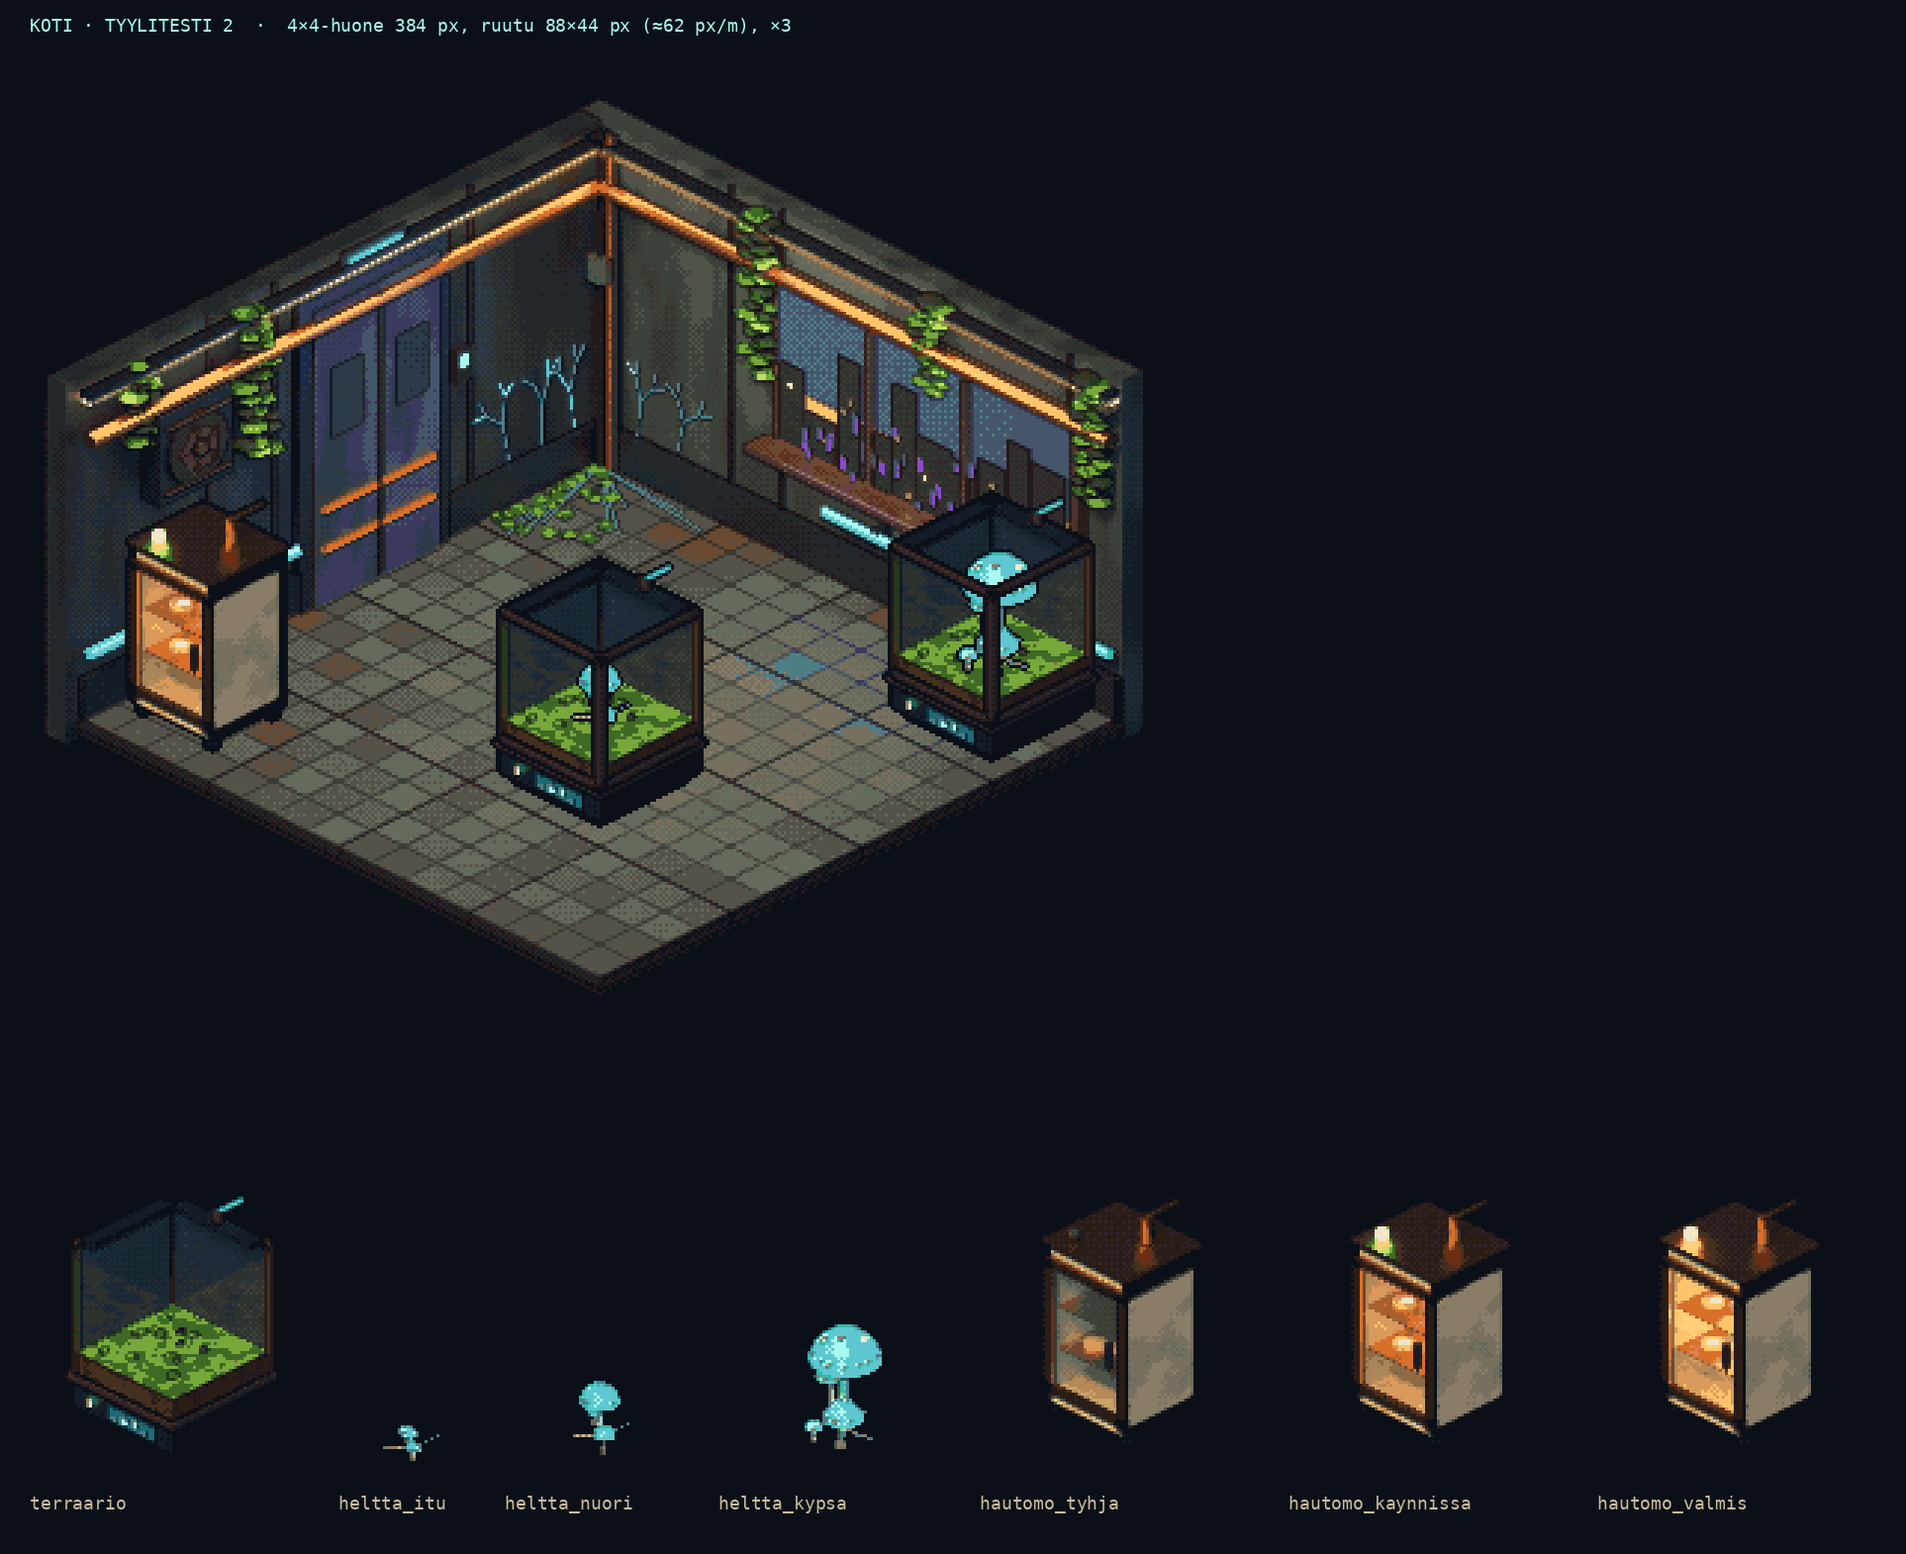
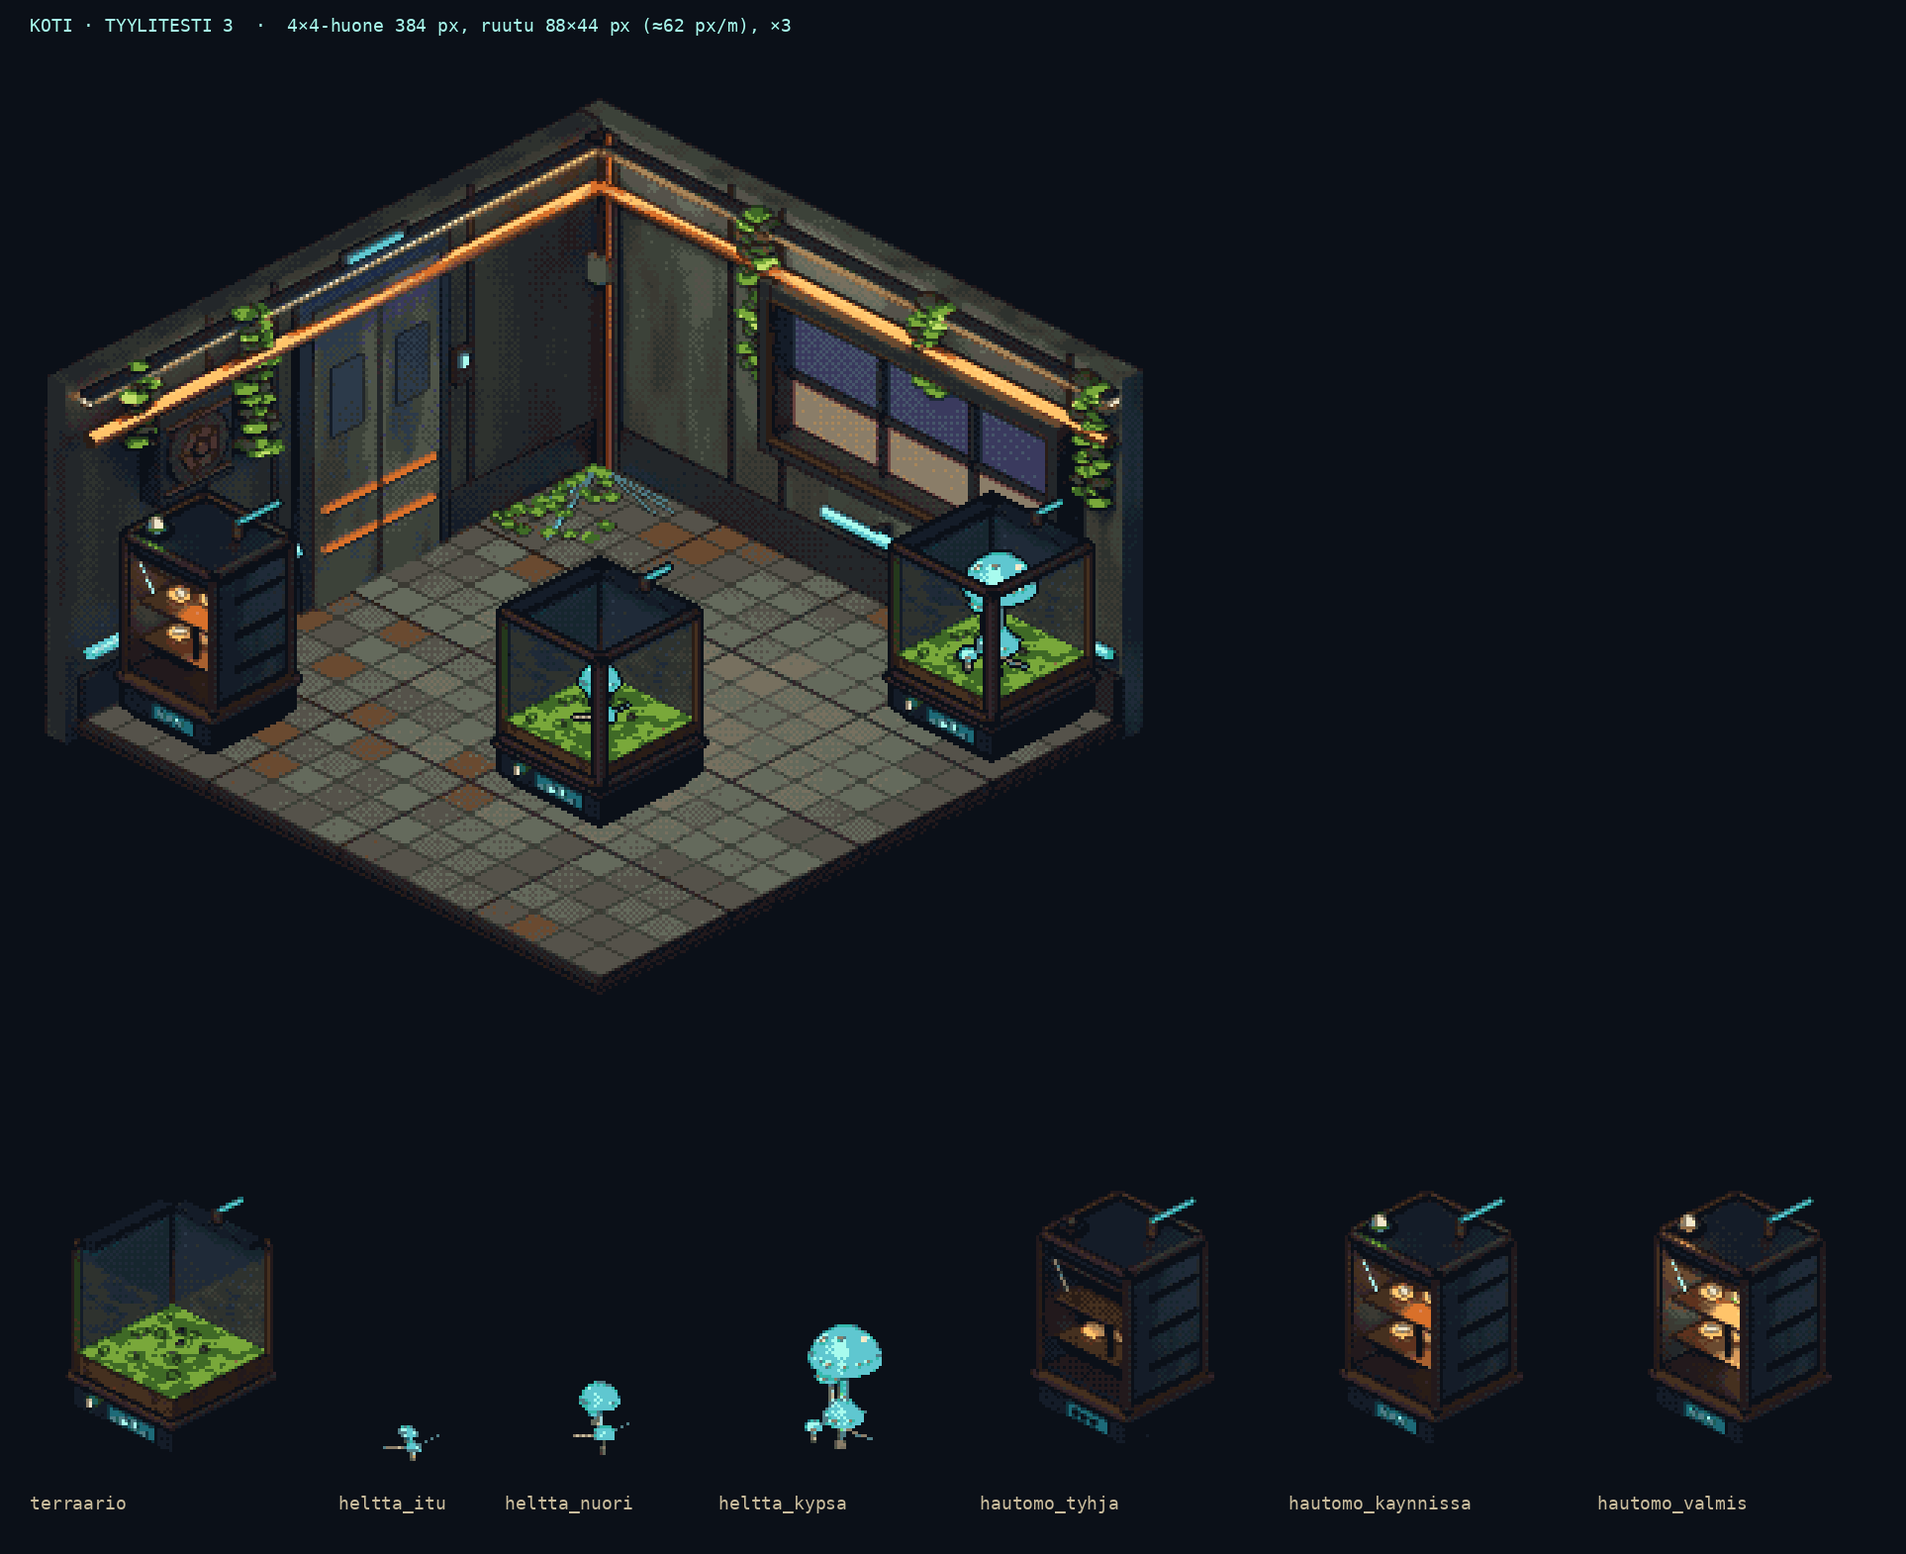
Grafiikka: tyylitesti 3 – hautomo terraarion tyyliin, syvä ikkunakarmi ilman maisemaa, rihmastot pois seiniltä
Claude-Session: https://claude.ai/code/session_01JS56Z8CcBzHQJ8sgZoALuF

diff --git a/blender/koti.py b/blender/koti.py
@@ -89,14 +89,14 @@ def M():
       'iron':    mat('rauta', '#2c3a4a', 0.55, 0.7),
       'cream':   wmat('emali', '#c9bc9c', '#efe6cc', 3.0, 0.5, cut=0.45),
       'glassB':  mat('lasiTaka', '#1f2a38', 0.1, 0.0, emit='#16262e', estr=0.6),
-      'glassF':  mat('lasiLuukku', '#4f7d86', 0.08, 0.0, alpha=0.25),
+      'glassF':  mat('lasiLuukku', '#4f7d86', 0.08, 0.0, alpha=0.1),
       'soil':    wmat('multa', '#2a1d16', '#45301f', 12.0, 1.0),
       'moss':    wmat('sammal', '#3f6a26', '#79a83a', 9.0, 1.0),
       'mossD':   mat('sammalT', '#24391c', 1.0),
       'stem':    mat('jalka', '#efe6cc', 0.7),
       'stemD':   mat('jalkaT', '#c9bc9c', 0.8),
-      'sky':     mat('taivas', '#7a4a5a', 1.0, emit='#d9845a', estr=1.4),
-      'skyT':    mat('taivasY', '#1b2a4a', 1.0, emit='#3a3a5e', estr=1.4),
+      'sky':     mat('taivas', '#3a3a5e', 1.0, emit='#7a4a5a', estr=1.2),
+      'skyT':    mat('taivasY', '#141c28', 1.0, emit='#1b2a4a', estr=1.2),
       'city':    mat('kaupunki', '#141c28', 1.0),
       'cityL':   mat('kaupunkiV', '#ffcf7a', 1.0, emit='#ffcf7a', estr=3.0),
       'door':    wmat('ovi', '#45301f', '#33242a', 5.0, 0.9, stretch=(1, 1, 6)),
@@ -104,8 +104,8 @@ def M():
       'ledG':    mat('ledV', '#6ae07a', 0.5, emit='#6ae07a', estr=8),
       'ledA':    mat('ledA', '#e8a02a', 0.5, emit='#ffcf7a', estr=8),
       'ledOff':  mat('ledP', '#23272a', 0.5),
-      'warmIn':  mat('hautomoS', '#d99a5b', 1.0, emit='#ffb860', estr=1.6),
-      'warmInA': mat('hautomoSA', '#e8a02a', 1.0, emit='#ffcf7a', estr=3.5),
+      'warmIn':  mat('hautomoS', '#d99a5b', 1.0, emit='#ffb860', estr=2.2),
+      'warmInA': mat('hautomoSA', '#e8a02a', 1.0, emit='#ffcf7a', estr=6.0),
       'warmOff': mat('hautomoSP', '#33242a', 1.0),
       'agar':    mat('agar', '#f3d08a', 0.4, emit='#d99a5b', estr=0.3),
       # futuristinen laboratorio
@@ -268,47 +268,59 @@ PLANT = {'astia_terraario': SOIL_TOP + 0.01}
 
 # =================== LAITTEET ===================
 def laite_hautomo(state='kaynnissa'):
-    """Hautomo: lämmin emalikaappi, lasiluukku, sisällä hyllyillä agar-maljoja, merivihreä merkkivalo."""
-    m = M(); w, d, h = 0.62, 0.56, 0.98; z0 = 0.08
-    for sx in (-1, 1):
-        for sy in (-1, 1): box((sx * (w / 2 - 0.05), sy * (d / 2 - 0.05), z0 / 2), (0.05, 0.05, z0), m['iron'])
-    # runko: takaseinä, sivut, katto, pohja (luukku -y-puolella)
-    box((0, d / 2 - 0.02, z0 + h / 2), (w, 0.04, h), m['cream'])
-    box((-w / 2 + 0.02, 0, z0 + h / 2), (0.04, d, h), m['cream'])
-    box((w / 2 - 0.02, 0, z0 + h / 2), (0.04, d, h), m['cream'])
-    box((0, 0, z0 + 0.03), (w, d, 0.06), m['cream'])
-    box((0, 0, z0 + h - 0.06), (w, d, 0.12), m['cream'])
-    box((0, 0, z0 + h + 0.01), (w + 0.03, d + 0.03, 0.03), m['copper'])
+    """Hautomo terraarion tyyliin: teräsjalusta lukemanäytöllä, tummat sivupaneelit teräskehyksessä,
+    lasiluukku (-y-puoli), jonka takana lämpimässä valossa hyllyittäin agar-maljoja. Merkkivalo katolla."""
+    m = M(); w, d, h = 0.66, 0.6, 0.86; z0 = BASE_H; t = 0.035
+    # jalusta kuten terraariossa
+    box((0, 0, z0 / 2 + 0.03), (w + 0.04, d + 0.04, z0 - 0.06), m['steelD'])
+    box((0, 0, z0 - 0.02), (w + 0.08, d + 0.08, 0.04), m['steel'])
+    box((0, 0, 0.02), (w - 0.06, d - 0.06, 0.04), m['rubber'])
+    box((0.06, -d / 2 - 0.025, z0 / 2), (0.3, 0.012, 0.09), m['screen'])
+    lit = state != 'tyhja'
+    for i in range(3):
+        box((-0.03 + i * 0.07, -d / 2 - 0.033, z0 / 2), (0.045, 0.01, 0.03), m['screenL'] if lit else m['panelD'])
+    box((w / 2 + 0.025, 0.1, z0 / 2), (0.012, 0.3, 0.05), m['panelD'])
+    # kaappi: takaseinä ja sivut tummaa paneelia, katto ja pohja
+    box((0, d / 2 - 0.02, z0 + h / 2), (w, 0.04, h), m['panelL'])
+    box((-w / 2 + 0.02, 0, z0 + h / 2), (0.04, d, h), m['panelL'])
+    box((w / 2 - 0.02, 0, z0 + h / 2), (0.04, d, h), m['panelR'])
+    for z in (0.25, 0.5, 0.75):                                          # tuuletusrivat oikealla kyljellä
+        box((w / 2 + 0.002, 0.05, z0 + z * h), (0.01, d - 0.25, 0.025), m['panelD'])
+    box((0, 0, z0 + 0.03), (w, d, 0.06), m['steelD'])
+    box((0, 0, z0 + h - 0.04), (w, d, 0.08), m['steelD'])
     inner = {'tyhja': m['warmOff'], 'kaynnissa': m['warmIn'], 'valmis': m['warmInA']}[state]
-    box((0, d / 2 - 0.045, z0 + h / 2), (w - 0.1, 0.01, h - 0.2), inner)
-    if state != 'tyhja':
+    box((0, d / 2 - 0.045, z0 + h / 2), (w - 0.1, 0.01, h - 0.16), inner)
+    if lit:
         glow_light((0, -0.05, z0 + h * 0.55), '#ffcf7a' if state == 'valmis' else '#ffb860', 6 if state == 'valmis' else 3, 0.2)
     # hyllyt ja maljat
     rnd = random.Random(5)
     cols = ['heltta', 'ruusu', 'heltta', 'hamara']
-    for i, z in enumerate((0.3, 0.56, 0.82)):
+    for i, z in enumerate((0.2, 0.44, 0.68)):
         zz = z0 + z
-        box((0, 0.02, zz), (w - 0.08, d - 0.1, 0.015), m['copper'])
-        if state == 'tyhja' and i > 0: continue
-        for j, x in enumerate((-0.15, 0.0, 0.15)):
+        box((0, 0.02, zz), (w - 0.08, d - 0.1, 0.015), m['steel'])
+        if not lit and i > 0: continue
+        for j, x in enumerate((-0.16, 0.0, 0.16)):
             cyl((x, -0.06 + (j % 2) * 0.08, zz + 0.02), 0.065, 0.025, m['agar'], 14)
             k = cols[(i + j) % 4]; capm, gillm, _ = strain_mats(k)
-            if state != 'tyhja':
+            if lit:
                 cyl((x + rnd.uniform(-0.02, 0.02), -0.06 + (j % 2) * 0.08, zz + 0.035), 0.035, 0.008, gillm, 10)
-    # lasiluukku ja sen kehys
-    box((0, -d / 2 + 0.01, z0 + h / 2 - 0.03), (w - 0.06, 0.012, h - 0.2), m['glassF'], shadow=False)
-    for x in (-w / 2 + 0.03, w / 2 - 0.03):
-        box((x, -d / 2, z0 + h / 2 - 0.03), (0.06, 0.03, h - 0.14), m['copper'])
-    for z in (z0 + 0.09, z0 + h - 0.1):
-        box((0, -d / 2, z), (w, 0.03, 0.05), m['copper'])
-    box((w / 2 - 0.1, -d / 2 - 0.03, z0 + h / 2), (0.03, 0.03, 0.16), m['iron'])        # kahva
-    # merkkivalo ja lämpömittari katolla
+    # lasiluukku ja teräskehys (pystytolpat ja reunat kuten terraariossa)
+    # luukun lasi jätetään pois kuten terraarion etulasit; vain ohut heijastusjuova lasin paikalla
+    rod((-w / 2 + 0.1, -d / 2 + 0.005, z0 + h - 0.12), (-w / 2 + 0.22, -d / 2 + 0.005, z0 + h - 0.3), 0.008, mat('heijastus', '#9fd3d6', 0.3, emit='#9fd3d6', estr=0.6), 4)
+    for (sx, sy) in ((-1, -1), (1, -1), (1, 1), (-1, 1)):
+        box((sx * w / 2, sy * d / 2, z0 + h / 2), (t, t, h), m['steel'])
+    for z in (z0, z0 + h):
+        for sy in (-1, 1): box((0, sy * d / 2, z), (w + t, t, t), m['steel'])
+        for sx in (-1, 1): box((sx * w / 2, 0, z), (t, d + t, t), m['steel'])
+    box((w / 2 - 0.09, -d / 2 - 0.03, z0 + h / 2), (0.025, 0.03, 0.2), m['steelD'])      # kahva
+    # kansi: merkkivalo ja kostutusletku (sama ravinneputki kuin terraariossa)
     led = {'tyhja': m['ledOff'], 'kaynnissa': m['ledG'], 'valmis': m['ledA']}[state]
-    sphere((-w / 2 + 0.12, -d / 2 + 0.1, z0 + h + 0.06), 0.045, led)
-    if state != 'tyhja':
-        glow_light((-w / 2 + 0.12, -d / 2 + 0.02, z0 + h + 0.12), '#6ae07a' if state == 'kaynnissa' else '#ffcf7a', 0.6, 0.05)
-    cyl((0.1, 0.08, z0 + h + 0.1), 0.035, 0.16, m['copper'], 10)                         # ilmaputki
-    rod((0.1, 0.08, z0 + h + 0.18), (0.1, d / 2 + 0.05, z0 + h + 0.18), 0.02, m['copper'])
+    box((-w / 2 + 0.12, -d / 2 + 0.12, z0 + h + 0.03), (0.12, 0.12, 0.04), m['steelD'])
+    sphere((-w / 2 + 0.12, -d / 2 + 0.12, z0 + h + 0.07), 0.04, led)
+    if lit:
+        glow_light((-w / 2 + 0.12, -d / 2 + 0.04, z0 + h + 0.13), '#6ae07a' if state == 'kaynnissa' else '#ffcf7a', 0.6, 0.05)
+    cyl((0.12, 0.1, z0 + h + 0.05), 0.035, 0.08, m['steel'], 10)
+    rod((0.12, 0.1, z0 + h + 0.09), (0.12, d / 2 + 0.12, z0 + h + 0.09), 0.018, m['tube'], 8)
 
 # =================== TILAT ===================
 ROOM_N = (4, 4)
@@ -328,7 +340,7 @@ def vine(x, y, z0, length, face, seed, m):
 
 def tila_huone():
     """4×4-laboratorio: laattalattia, paneeliseinät, valolista, ravinneputket, tuuletin, liukuovi kellariin,
-    leveä ikkuna villiintyneeseen iltakaupunkiin, köynnöksiä ja nurkasta kasvava rihmasto."""
+    syvä ikkuna hämärään, köynnöksiä ja nurkan lattialle levinnyt rihmasto."""
     m = M(); nx, ny = ROOM_N; hx, hy = nx / 2, ny / 2
     for c in range(nx):
         for r in range(ny):
@@ -350,29 +362,24 @@ def tila_huone():
     box((0, hy - 0.05, WALL_H - 0.12), (nx, 0.06, 0.035), m['strip'], shadow=False)
     box((-hx + 0.07, 0, WALL_H - 0.08), (0.1, ny, 0.04), m['steelD'], shadow=False)
     box((0, hy - 0.07, WALL_H - 0.08), (nx, 0.1, 0.04), m['steelD'], shadow=False)
-    # leveä ikkuna oikeassa seinässä
-    wx0, wx1, wz0, wz1 = -0.55, 1.65, 0.75, 1.7
+    # leveä ikkuna oikeassa seinässä: syvä teräskarmi (3D-reunat), takana vain hämärä valo
+    wx0, wx1, wz0, wz1 = -0.5, 1.6, 0.8, 1.65
     wx, ww, wz, wh = (wx0 + wx1) / 2, wx1 - wx0, (wz0 + wz1) / 2, wz1 - wz0
-    box((wx, hy - 0.02, wz), (ww + 0.14, 0.1, wh + 0.14), m['steel'], shadow=False)
-    box((wx, hy - 0.04, wz + wh * 0.18), (ww, 0.1, wh * 0.64), m['skyT'], shadow=False)
-    box((wx, hy - 0.04, wz - wh * 0.32), (ww, 0.1, wh * 0.36), m['sky'], shadow=False)
-    rnd = random.Random(11); x = wx0 + 0.03
-    while x < wx1 - 0.1:
-        bw = rnd.uniform(0.12, 0.26); bh = rnd.uniform(0.2, 0.7)
-        box((x + bw / 2, hy - 0.1, wz0 + bh / 2), (bw, 0.02, bh), m['city'], shadow=False)
-        for k in range(int(bh / 0.08)):
-            if rnd.random() < 0.3:
-                box((x + bw / 2 + rnd.uniform(-bw / 3, bw / 3), hy - 0.115, wz0 + 0.05 + k * 0.08), (0.025, 0.01, 0.025), m['cityL'], shadow=False)
-        if rnd.random() < 0.6:     # villi rihmasto kiipeää tornien kylkiä (kylmä violetti)
-            for k in range(rnd.randint(3, 7)):
-                box((x + bw / 2 + rnd.uniform(-bw / 2, bw / 2), hy - 0.118, wz0 + rnd.uniform(0, bh)), (0.035, 0.01, rnd.uniform(0.03, 0.12)), m['wild'], shadow=False)
-        x += bw + 0.015
-    for xx in (wx0 + ww / 3, wx0 + 2 * ww / 3):
-        box((xx, hy - 0.12, wz), (0.04, 0.05, wh), m['steel'], shadow=False)
-    box((wx, hy - 0.17, wz0 - 0.05), (ww + 0.2, 0.18, 0.05), m['steel'], shadow=False)       # ikkunalauta
-    cyl((wx1 - 0.15, hy - 0.17, wz0 + 0.04), 0.06, 0.1, m['pot'], 10)                         # pieni kasvi
-    for i in range(5):
-        a = i * 1.26; sphere((wx1 - 0.15 + math.cos(a) * 0.05, hy - 0.17 + math.sin(a) * 0.05, wz0 + 0.14 + (i % 2) * 0.04), 0.05, m['leaf'], (1, 1, 1.6), 6)
+    D, F = 0.2, 0.1                     # karmin syvyys huoneeseen päin ja leveys
+    box((wx, hy - 0.005, wz + wh * 0.2), (ww, 0.02, wh * 0.6), m['skyT'], shadow=False)        # hämärä lasi
+    box((wx, hy - 0.005, wz - wh * 0.3), (ww, 0.02, wh * 0.4), m['sky'], shadow=False)
+    for (cx, sx) in ((wx0 - F / 2, F), (wx1 + F / 2, F)):                                     # sivukarmit
+        box((cx, hy - D / 2, wz), (sx, D, wh + 2 * F), m['steelD'], shadow=False)
+    for cz in (wz0 - F / 2, wz1 + F / 2):                                                     # ala- ja yläkarmi
+        box((wx, hy - D / 2, cz), (ww, D, F), m['steelD'], shadow=False)
+    # sisäreunan viiste: ohut vaalea teräsreuna karmin etureunassa
+    for (cx, sx) in ((wx0 - 0.015, 0.03), (wx1 + 0.015, 0.03)):
+        box((cx, hy - D + 0.015, wz), (sx, 0.03, wh), m['steel'], shadow=False)
+    for cz in (wz0 - 0.015, wz1 + 0.015):
+        box((wx, hy - D + 0.015, cz), (ww + 0.06, 0.03, 0.03), m['steel'], shadow=False)
+    for xx in (wx0 + ww / 3, wx0 + 2 * ww / 3):                                                # välipuitteet lasin pinnassa
+        box((xx, hy - 0.03, wz), (0.04, 0.05, wh), m['steelD'], shadow=False)
+    box((wx, hy - 0.03, wz0 + wh * 0.4), (ww, 0.05, 0.035), m['steelD'], shadow=False)
     # liukuovi kellariin vasemmassa seinässä
     dy, dw, dh = 0.2, 0.95, 1.85
     box((-hx + 0.04, dy, dh / 2 + 0.05), (0.08, dw + 0.18, dh + 0.1), m['steelD'], shadow=False)
@@ -416,23 +423,13 @@ def tila_huone():
     for i in range(30):
         a = rnd.random()
         box((-hx + 0.1 + rnd.random() * 0.6 * a, hy - 0.1 - rnd.random() * 0.8, 0.008), (0.07, 0.07, 0.016 + rnd.random() * 0.02), m['moss'])
-    def branch(p, d, l, n, face):   # haarautuva rihma seinällä
-        q = (p[0] + d[0] * l, p[1] + d[1] * l, p[2] + d[2] * l); rod(p, q, 0.007, m['myc'], 4)
-        if n > 0:
-            for s in (-1, 1):
-                a = rnd.uniform(0.3, 0.7) * s
-                if face == 'x': nd = (0, d[1] * math.cos(a) - d[2] * math.sin(a), d[1] * math.sin(a) + d[2] * math.cos(a))
-                else: nd = (d[0] * math.cos(a) - d[2] * math.sin(a), 0, d[0] * math.sin(a) + d[2] * math.cos(a))
-                branch(q, nd, l * 0.65, n - 1, face)
-    for i in range(3): branch((-hx + 0.01, hy - 0.2 - i * 0.25, 0.25), (0, rnd.uniform(-0.3, 0.3), 1), 0.25, 2, 'x')
-    for i in range(2): branch((-hx + 0.3 + i * 0.3, hy - 0.01, 0.25), (rnd.uniform(-0.3, 0.3), 0, 1), 0.22, 2, 'y')
     for i in range(10):
         a = rnd.uniform(-1.5, 0); l = rnd.uniform(0.3, 0.9)
         rod((-hx + 0.1, hy - 0.1, 0.005), (-hx + 0.1 + math.cos(a) * l, hy - 0.1 + math.sin(a) * l, 0.005), 0.007, m['myc'], 4)
     # huoneen oma valo (vain taustakuvaan): lämmin katosta ja viileä ikkunasta
     L = bpy.data.lights.new('katto', 'AREA'); L.energy = 70; L.size = 2.5; L.color = hexc('#f3d08a')[:3]
     lo = bpy.data.objects.new('katto', L); lo.location = (0, 0, WALL_H + 0.3); link(lo)
-    L = bpy.data.lights.new('ikkuna', 'AREA'); L.energy = 90; L.size = 1.8; L.color = hexc('#7a6cc0')[:3]
+    L = bpy.data.lights.new('ikkuna', 'AREA'); L.energy = 50; L.size = 1.8; L.color = hexc('#7a6cc0')[:3]
     lo = bpy.data.objects.new('ikkuna', L); lo.location = (wx, hy - 0.25, wz); lo.rotation_euler = (math.radians(-90), 0, 0); link(lo)
 
 # =================== KOHTAUS JA RENDERÖINTI ===================

diff --git a/blender/koti_sheet.py b/blender/koti_sheet.py
@@ -43,7 +43,7 @@ SS = 3; mh = max(im[n].height for n in names)
 strip_w = sum(im[n].width * SS + 24 for n in names) + 30
 W = max(RW * S + 60, strip_w); H = RH * S + 60 + mh * SS + 70
 out = Image.new('RGB', (W, H), (11, 16, 24)); d = ImageDraw.Draw(out)
-d.text((30, 15), f'KOTI · TYYLITESTI 2  ·  4×4-huone {RW} px, ruutu {TW}×{TH} px (≈{meta["ppm"]:.0f} px/m), ×{S}', fill=(168, 251, 238), font=font)
+d.text((30, 15), f'KOTI · TYYLITESTI 3  ·  4×4-huone {RW} px, ruutu {TW}×{TH} px (≈{meta["ppm"]:.0f} px/m), ×{S}', fill=(168, 251, 238), font=font)
 big = scene.resize((RW * S, RH * S), Image.NEAREST); out.paste(big, (30, 45))
 x = 30; y0 = RH * S + 60
 for n in names:

diff --git a/docs/grafiikka-koti.md b/docs/grafiikka-koti.md
@@ -5,7 +5,7 @@ Tämä ohje kertoo, miten kotipelin grafiikka tehdään ja miten se liitetään 
 ## Tyylin lähteet
 
 - `docs/kuvat/huone_tyylitesti.png`: isometrinen huone, valaistus ja kolme elinvoimatasoa.
-- `docs/kuvat/koti_tyylitesti.png` (tyylitesti 2): futuristisempi biopunk-laboratorio Juuson palautteen mukaan: tummat teräs- ja paneelipinnat, laattalattia, lämmin valolista, ravinneputket, köynnökset ja nurkasta seinille kasvava rihmasto. Ikkunasta näkyy villiintynyt kaupunki (kylmä violetti).
+- `docs/kuvat/koti_tyylitesti.png` (tyylitesti 2): futuristisempi biopunk-laboratorio Juuson palautteen mukaan: tummat teräs- ja paneelipinnat, laattalattia, lämmin valolista, ravinneputket, köynnökset ja nurkasta seinille kasvava rihmasto. Tyylitesti 3: hautomo terraarion tyyliin (teräsjalusta, tummat paneelit, teräskehys), ikkunassa syvä teräskarmi eikä maisemaa, vain hämärä valo, ei ikkunalautaa eikä rihmastoa seinillä.
 - `docs/kuvat/katupakkaus_tyylilevy.png` ja `docs/kuvat/katukulma_vertailu.png`: materiaalit (ruoste, patina, sammal), ääriviivat ja paletti.
 - `docs/kuvat/terraario_tyylikuva.png`: poikkileikkausnäkymä (2D, piirretty koodilla).
 - Moodboardin henki sanoin: isometriset aukileikatut pikselidioraamat, hehkuvat lasisäiliöt ja akvaariot, lämmin sisävalo tummassa ja viileässä ympäristössä, sammaloitunut rappio, kupariputket.
